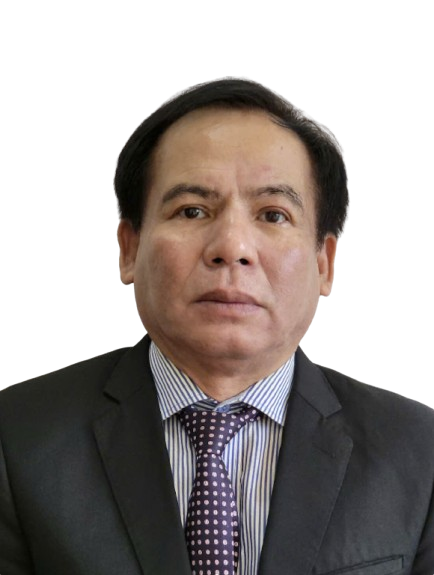
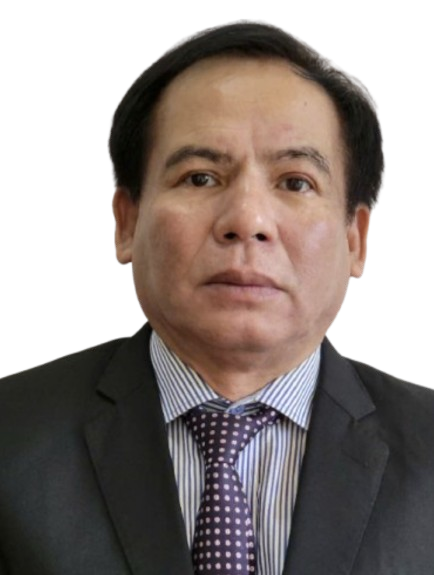
Tweak profile animations and slide offsets
Speed up and tighten profile entry animations and reduce slide distances. Updated src/script.js to change GSAP start positions/scales and shorten durations (photo x/start scale adjusted, textBox start x/scale changed, duration reduced to 0.25s). Adjusted CSS slide-exit keyframes in styles.css to use ±50% translation instead of ±100% for a less aggressive exit. Also replaced the profile photo asset public/profilePhotos/tranquoctoan__nobg.png.

diff --git a/src/script.js b/src/script.js
@@ -495,12 +495,12 @@ window.attachProfileEvents_moe = () => {
       photo.classList.remove('slide-exit-left', 'slide-exit-right');
       const tl = gsap.timeline();
       tl.fromTo(photo, 
-        { x: direction === 'right' ? -100 : 100, scale: 0.5, opacity: 0 }, 
-        { x: 0, opacity: 1, duration: 1.5, scale: 1, ease: "power2.out" }
+        { x: direction === 'right' ? -37.5 : 100, scale: .75, opacity: 0 }, 
+        { x: 0, opacity: 1, duration: 0.25, scale: 1, ease: "power2.out" }
       );
       tl.fromTo(textBox, 
-        { x: direction === 'right' ? 100 : -100, scale: 1.5, opacity: 0 }, 
-        { x: 0, opacity: 1, duration: 1.5, scale: 1, ease: "power2.out" },
+        { x: direction === 'right' ? 100 : -37.5, scale: .75, opacity: 0 }, 
+        { x: 0, opacity: 1, duration: 0.25, scale: 1, ease: "power2.out" },
         "-=0.5"
       );
     }, 300);

diff --git a/styles.css b/styles.css
@@ -3324,7 +3324,7 @@ body.loaded #app {
     opacity: 1;
   }
   100% {
-    transform: translateX(-100%);
+    transform: translateX(-50%);
     opacity: 0;
   }
 }
@@ -3335,7 +3335,7 @@ body.loaded #app {
     opacity: 1;
   }
   100% {
-    transform: translateX(100%);
+    transform: translateX(50%);
     opacity: 0;
   }
 }
